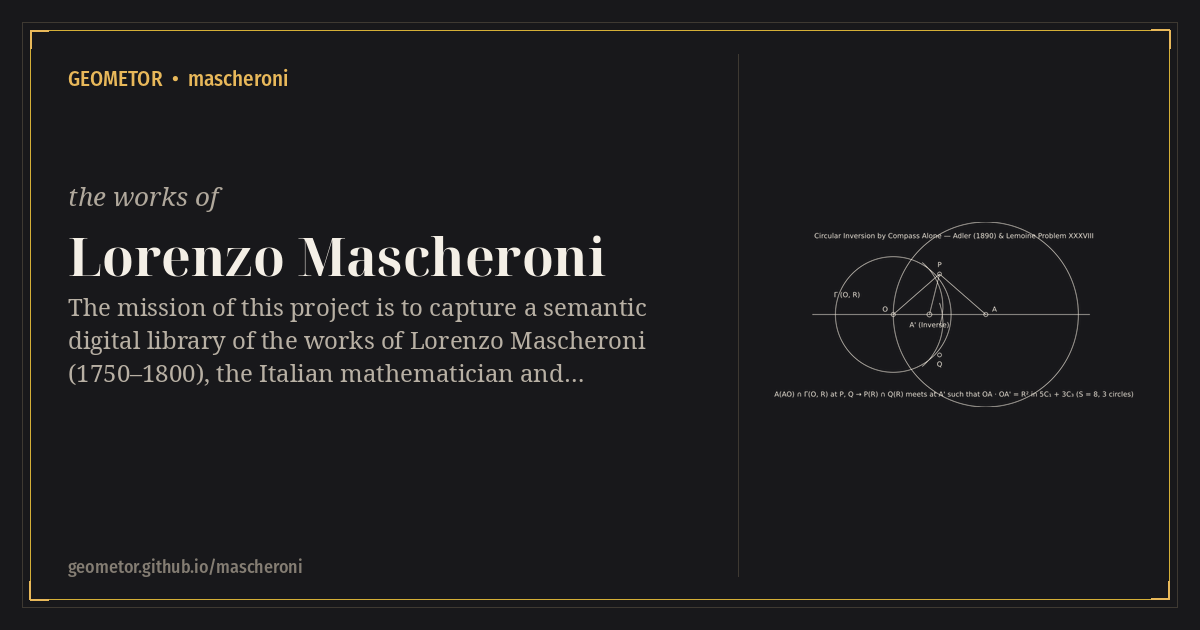
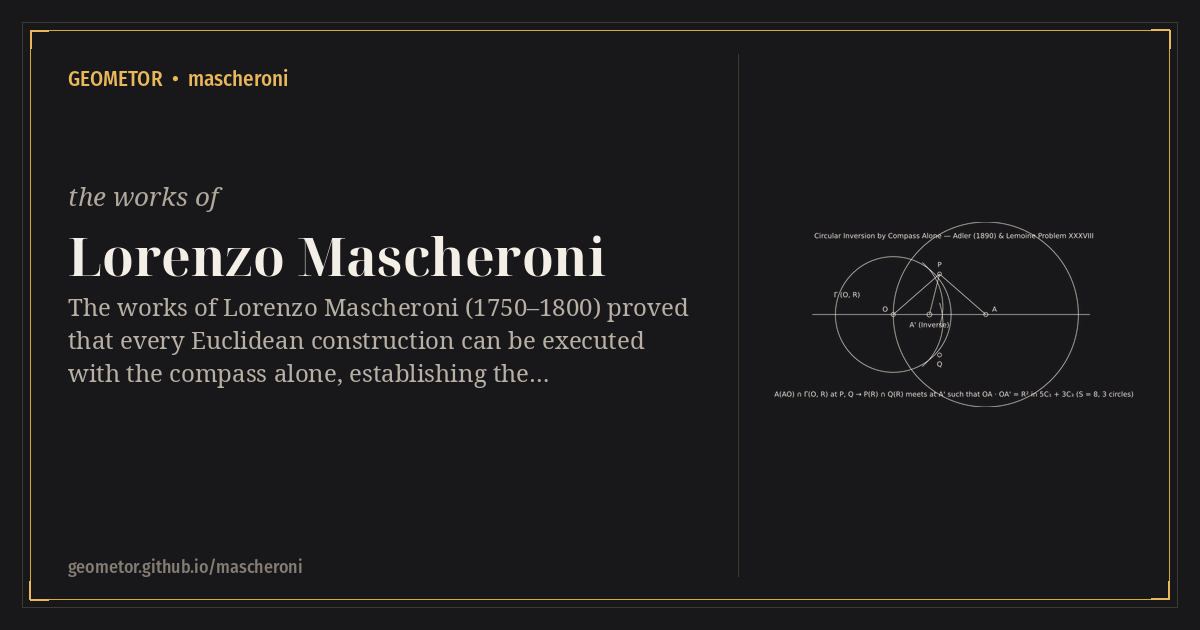
docs: add construction hero images, elevate English titles with native title tracks, and standardize track menus

Changed region(s): [[0.0617, 0.4524, 0.5858, 0.6333]]

diff --git a/docsrc/geometria_del_compasso/index.rst b/docsrc/geometria_del_compasso/index.rst
@@ -1,22 +1,24 @@
 :navigation: header
 :order: 1
 :type: book
-:nav_title: La Geometria del Compasso
-:breadcrumb_title: La Geometria del Compasso
+:title: The Geometry of the Compass
+:nav_title: Geometry of the Compass
+:breadcrumb_title: Geometry of the Compass
 :layout: book
-:book_title: La Geometria del Compasso
-:book_subtitle: The Geometry of the Compass — Lorenzo Mascheroni (Pavia, 1797)
+:book_title: The Geometry of the Compass
+:book_subtitle: La Geometria del Compasso — Lorenzo Mascheroni (Pavia, 1797)
 :author: Lorenzo Mascheroni
 :year: 1797
+:tracks: English: index | Italian: title-it
 :excerpt: Lorenzo Mascheroni's 1797 Pavia masterpiece proving constructively across twelve books that every Euclidean construction can be executed with the compass alone.
 
 .. _geometria_del_compasso-index:
 
-=========================
-La Geometria del Compasso
-=========================
+===========================
+The Geometry of the Compass
+===========================
 
-.. rubric:: *The Geometry of the Compass* — :person:`Lorenzo Mascheroni <mascheroni>` (Pavia, Anno V / 1797)
+.. rubric:: *La Geometria del Compasso* — :person:`Lorenzo Mascheroni <mascheroni>` (Pavia, Anno V / 1797)
 
 .. container:: title-page
 
@@ -25,7 +27,7 @@ La Geometria del Compasso
    | **First Edition (1797):** *La Geometria del Compasso*, Pavia: Presso gli Eredi di Pietro Galeazzi, Anno V della Repubblica Francese
    | **French Translation (1798):** *Géométrie du compas*, trans. :person:`Antoine-Michel Carette <carette>`, Paris: Duprat, 1798
    | **Centenary Edition (1901):** Ed. :person:`Gaetano Fazzari <fazzari>`, Palermo: Casa Editrice 'Era Nova', 1901
-   | **Digital Scriptorium Edition:** Synchronized 4-Track Codex (*Italian (1797) · English · Summary · Notes*) with exact symbolic geometry
+   | **Digital Scriptorium Edition:** Synchronized 4-Track Codex (*English · Italian · Summary · Notes*) with exact symbolic geometry
 
 .. epigraph::
 
@@ -38,26 +40,26 @@ La Geometria del Compasso
 Table of Contents
 -----------------
 
-**Prefazione e Dedica a Bonaparte: La genesi de La Geometria del Compasso**
-   :ref:`Italian (1797) <mascheroni-prefazione-it>` · :ref:`English <mascheroni-prefazione-en>` · :ref:`Summary <mascheroni-prefazione-summary>` · :ref:`Notes <mascheroni-prefazione-notes>`
+**Preface and Dedication to Bonaparte: The Genesis of The Geometry of the Compass**
+   :ref:`English <mascheroni-prefazione-en>` · :ref:`Italian <mascheroni-prefazione-it>` · :ref:`Summary <mascheroni-prefazione-summary>` · :ref:`Notes <mascheroni-prefazione-notes>`
 
-**Libro I: Preliminari — Principi e Operazioni Fondamentali del Compasso (§§ 1–11)**
-   :ref:`Italian (1797) <mascheroni-libro-1-it>` · :ref:`English <mascheroni-libro-1-en>` · :ref:`Summary <mascheroni-libro-1-summary>` · :ref:`Notes <mascheroni-libro-1-notes>`
+**Book I: Preliminaries — Principles and Fundamental Operations of the Compass (§§ 1–11)**
+   :ref:`English <mascheroni-libro-1-en>` · :ref:`Italian <mascheroni-libro-1-it>` · :ref:`Summary <mascheroni-libro-1-summary>` · :ref:`Notes <mascheroni-libro-1-notes>`
 
-**Libro III: Moltiplicazione e Divisione delle Distanze in Linea Retta (§§ 64–68)**
-   :ref:`Italian (1797) <mascheroni-libro-3-it>` · :ref:`English <mascheroni-libro-3-en>` · :ref:`Summary <mascheroni-libro-3-summary>` · :ref:`Notes <mascheroni-libro-3-notes>`
+**Book III: Multiplication and Division of Distances in a Straight Line (§§ 64–68)**
+   :ref:`English <mascheroni-libro-3-en>` · :ref:`Italian <mascheroni-libro-3-it>` · :ref:`Summary <mascheroni-libro-3-summary>` · :ref:`Notes <mascheroni-libro-3-notes>`
 
-**Libro IV: Perpendicolari e Parallele al Solo Compasso (§§ 76–80)**
-   :ref:`Italian (1797) <mascheroni-libro-4-it>` · :ref:`English <mascheroni-libro-4-en>` · :ref:`Summary <mascheroni-libro-4-summary>` · :ref:`Notes <mascheroni-libro-4-notes>`
+**Book IV: Perpendiculars and Parallels by the Compass Alone (§§ 76–80)**
+   :ref:`English <mascheroni-libro-4-en>` · :ref:`Italian <mascheroni-libro-4-it>` · :ref:`Summary <mascheroni-libro-4-summary>` · :ref:`Notes <mascheroni-libro-4-notes>`
 
-**Libro V: Delle Distanze Proporzionali al Solo Compasso (§§ 86–96)**
-   :ref:`Italian (1797) <mascheroni-libro-5-it>` · :ref:`English <mascheroni-libro-5-en>` · :ref:`Summary <mascheroni-libro-5-summary>` · :ref:`Notes <mascheroni-libro-5-notes>`
+**Book V: On Proportional Distances by the Compass Alone (§§ 86–96)**
+   :ref:`English <mascheroni-libro-5-en>` · :ref:`Italian <mascheroni-libro-5-it>` · :ref:`Summary <mascheroni-libro-5-summary>` · :ref:`Notes <mascheroni-libro-5-notes>`
 
-**Libro VII: Intersezione delle Rette cogli Archi di Cerchio e tra Loro (§§ 110–112)**
-   :ref:`Italian (1797) <mascheroni-libro-7-it>` · :ref:`English <mascheroni-libro-7-en>` · :ref:`Summary <mascheroni-libro-7-summary>` · :ref:`Notes <mascheroni-libro-7-notes>`
+**Book VII: Intersection of Straight Lines with Circular Arcs and with One Another (§§ 110–112)**
+   :ref:`English <mascheroni-libro-7-en>` · :ref:`Italian <mascheroni-libro-7-it>` · :ref:`Summary <mascheroni-libro-7-summary>` · :ref:`Notes <mascheroni-libro-7-notes>`
 
-**Libro X: Determinazione dei Centri e Problema di Napoleone (§§ 143–147)**
-   :ref:`Italian (1797) <mascheroni-libro-10-it>` · :ref:`English <mascheroni-libro-10-en>` · :ref:`Summary <mascheroni-libro-10-summary>` · :ref:`Notes <mascheroni-libro-10-notes>`
+**Book X: Determination of Centers and Napoleon's Problem (§§ 143–147)**
+   :ref:`English <mascheroni-libro-10-en>` · :ref:`Italian <mascheroni-libro-10-it>` · :ref:`Summary <mascheroni-libro-10-summary>` · :ref:`Notes <mascheroni-libro-10-notes>`
 
 .. picture:: /_static/figures/fig_mascheroni_midpoint.svg
    :alt: Mascheroni segment bisection without straightedge (Libro III, § 66, Sol. V)
@@ -87,7 +89,7 @@ Scholarly Apparatus
 .. toctree::
    :maxdepth: 1
    :hidden:
-   :caption: Testo Italiano (1797 / 1901)
+   :caption: Italian Edition
 
    00-prefazione-it
    01-libro-1-preliminari-it
@@ -116,3 +118,10 @@ Scholarly Apparatus
    05-libro-7-intersezioni-notes
    06-libro-10-centri-summary
    06-libro-10-centri-notes
+
+.. toctree::
+   :maxdepth: 1
+   :hidden:
+   :caption: Title Pages
+
+   title-it

diff --git a/docsrc/geometria_del_compasso/title-it.rst b/docsrc/geometria_del_compasso/title-it.rst
@@ -1,0 +1,60 @@
+:type: book_title
+:layout: book
+:title: La Geometria del Compasso
+:book_title: La Geometria del Compasso
+:book_subtitle: Lorenzo Mascheroni (Pavia, Anno V / 1797)
+:author: Lorenzo Mascheroni
+:toc_label: Indice
+:persons_label: Indice dei Nomi
+:bibliography_label: Bibliografia
+:glossary_label: Glossario
+:tracks: English: index | Italian: title-it
+
+.. _geometria_del_compasso-title-it:
+
+=========================
+La Geometria del Compasso
+=========================
+
+.. rubric:: *Lorenzo Mascheroni* — Pavia: Presso gli Eredi di Pietro Galeazzi, Anno V (1797)
+
+.. container:: title-page
+
+   | **Autore:** :person:`Lorenzo Mascheroni <mascheroni>` (1750–1800)
+   | **Dedica:** Generale :person:`Napoléon Bonaparte <bonaparte>` (Pavia, 1797)
+   | **Prima Edizione:** *La Geometria del Compasso*, Pavia, 1797
+
+----
+
+Indice dell'Opera
+-----------------
+
+**Prefazione e Dedica a Bonaparte: La genesi de La Geometria del Compasso**
+   :ref:`Italian <mascheroni-prefazione-it>` · :ref:`English <mascheroni-prefazione-en>` · :ref:`Summary <mascheroni-prefazione-summary>` · :ref:`Notes <mascheroni-prefazione-notes>`
+
+**Libro I: Preliminari — Principi e Operazioni Fondamentali del Compasso (§§ 1–11)**
+   :ref:`Italian <mascheroni-libro-1-it>` · :ref:`English <mascheroni-libro-1-en>` · :ref:`Summary <mascheroni-libro-1-summary>` · :ref:`Notes <mascheroni-libro-1-notes>`
+
+**Libro III: Moltiplicazione e Divisione delle Distanze in Linea Retta (§§ 64–68)**
+   :ref:`Italian <mascheroni-libro-3-it>` · :ref:`English <mascheroni-libro-3-en>` · :ref:`Summary <mascheroni-libro-3-summary>` · :ref:`Notes <mascheroni-libro-3-notes>`
+
+**Libro IV: Perpendicolari e Parallele al Solo Compasso (§§ 76–80)**
+   :ref:`Italian <mascheroni-libro-4-it>` · :ref:`English <mascheroni-libro-4-en>` · :ref:`Summary <mascheroni-libro-4-summary>` · :ref:`Notes <mascheroni-libro-4-notes>`
+
+**Libro V: Delle Distanze Proporzionali al Solo Compasso (§§ 86–96)**
+   :ref:`Italian <mascheroni-libro-5-it>` · :ref:`English <mascheroni-libro-5-en>` · :ref:`Summary <mascheroni-libro-5-summary>` · :ref:`Notes <mascheroni-libro-5-notes>`
+
+**Libro VII: Intersezione delle Rette cogli Archi di Cerchio e tra Loro (§§ 110–112)**
+   :ref:`Italian <mascheroni-libro-7-it>` · :ref:`English <mascheroni-libro-7-en>` · :ref:`Summary <mascheroni-libro-7-summary>` · :ref:`Notes <mascheroni-libro-7-notes>`
+
+**Libro X: Determinazione dei Centri e Problema di Napoleone (§§ 143–147)**
+   :ref:`Italian <mascheroni-libro-10-it>` · :ref:`English <mascheroni-libro-10-en>` · :ref:`Summary <mascheroni-libro-10-summary>` · :ref:`Notes <mascheroni-libro-10-notes>`
+
+----
+
+Apparato Critico
+----------------
+
+* :doc:`Indice dei Nomi </persons>`
+* :doc:`Bibliografia </bibliography>`
+* :doc:`Glossario </glossary>`

diff --git a/docsrc/geometria_del_compasso/02-libro-3-distanze/index.rst b/docsrc/geometria_del_compasso/02-libro-3-distanze/index.rst
@@ -1,18 +1,18 @@
 :layout: book
 :type: section
 :order: 3
-:canonical_id: Libro III
-:title: Libro III: Moltiplicazione e Divisione delle Distanze
-:nav_title: Libro III
-:breadcrumb_title: Libro III
+:canonical_id: Book III
+:title: Book III: Multiplication and Division of Distances
+:nav_title: Book III
+:breadcrumb_title: Book III
 
 .. _mascheroni-libro-3-container:
 
-============================================================
-Libro III: Moltiplicazione e Divisione delle Distanze
-============================================================
+==================================================
+Book III: Multiplication and Division of Distances
+==================================================
 
-.. rubric:: Raddoppiamento, Bisezione, Suddivisione e Trisezione al Solo Compasso (Pavia, 1797, §§ 64–68)
+.. rubric:: *Libro III* — Doubling, Bisection, Subdivision, and Trisection by the Compass Alone (Pavia, 1797, §§ 64–68)
 
 .. collection::
    :sort: order
@@ -35,7 +35,7 @@ Libro III: Moltiplicazione e Divisione delle Distanze
 .. toctree::
    :maxdepth: 1
    :hidden:
-   :caption: Testo Italiano (1797)
+   :caption: Italian Edition
 
    sec-64-raddoppiamento-it
    sec-66-bisezione-it

diff --git a/README.rst b/README.rst
@@ -3,6 +3,11 @@ GEOMETOR • mascheroni
 
 **Visit the Online Archive:** https://geometor.github.io/mascheroni/
 
+.. image:: docsrc/_static/figures/fig_mascheroni_inversion.svg
+   :alt: GEOMETOR • mascheroni featured geometric construction
+   :target: https://geometor.github.io/mascheroni/
+   :align: center
+
 **Lorenzo Mascheroni • La Geometria del Compasso • semantic digital archive**
 
 Mission
@@ -13,7 +18,7 @@ Mission
 Books in This Archive
 ---------------------
 
-- **`La Geometria del Compasso <https://geometor.github.io/mascheroni/geometria_del_compasso/>`_** — Demonstrating that all Euclidean planar straightedge-and-compass constructions can be executed with compass alone (Pavia, 1797).
+- **`The Geometry of the Compass <https://geometor.github.io/mascheroni/geometria_del_compasso/>`_** — *La Geometria del Compasso*, demonstrating that all Euclidean planar straightedge-and-compass constructions can be executed with compass alone (Pavia, 1797).
 
 Repository Contents
 -------------------

diff --git a/docsrc/geometria_del_compasso/00-prefazione/index.rst b/docsrc/geometria_del_compasso/00-prefazione/index.rst
@@ -1,18 +1,18 @@
 :layout: book
 :type: section
 :order: 1
-:canonical_id: Prefazione
-:title: Prefazione e Dedica a Bonaparte
-:nav_title: Prefazione
-:breadcrumb_title: Prefazione
+:canonical_id: Preface
+:title: Preface and Dedication to Bonaparte
+:nav_title: Preface
+:breadcrumb_title: Preface
 
 .. _mascheroni-prefazione-container:
 
-================================
-Prefazione e Dedica a Bonaparte
-================================
+===================================
+Preface and Dedication to Bonaparte
+===================================
 
-.. rubric:: The Genesis of *La Geometria del Compasso* (Pavia 1797 / Palermo 1901)
+.. rubric:: *Prefazione e Dedica a Bonaparte* — The Genesis of *La Geometria del Compasso* (Pavia 1797 / Palermo 1901)
 
 .. collection::
    :sort: order
@@ -33,7 +33,7 @@ Prefazione e Dedica a Bonaparte
 .. toctree::
    :maxdepth: 1
    :hidden:
-   :caption: Testo Italiano (1797 / 1901)
+   :caption: Italian Edition
 
    01-dedica-bonaparte-it
    02-prefazione-mascheroni-it

diff --git a/docsrc/geometria_del_compasso/01-libro-1-preliminari/index.rst b/docsrc/geometria_del_compasso/01-libro-1-preliminari/index.rst
@@ -1,18 +1,18 @@
 :layout: book
 :type: section
 :order: 2
-:canonical_id: Libro I
-:title: Libro I: Preliminari
-:nav_title: Libro I
-:breadcrumb_title: Libro I
+:canonical_id: Book I
+:title: Book I: Preliminaries
+:nav_title: Book I
+:breadcrumb_title: Book I
 
 .. _mascheroni-libro-1-container:
 
-============================
-Libro I: Preliminari
-============================
+=====================
+Book I: Preliminaries
+=====================
 
-.. rubric:: Principi Fondamentali e Teoria del Compasso Solo (Pavia, 1797, §§ 1–14)
+.. rubric:: *Libro I: Preliminari* — Fundamental Principles and Theory of the Compass Alone (Pavia, 1797, §§ 1–14)
 
 .. collection::
    :sort: order
@@ -31,7 +31,7 @@ Libro I: Preliminari
 .. toctree::
    :maxdepth: 1
    :hidden:
-   :caption: Testo Italiano (1797)
+   :caption: Italian Edition
 
    sec-01-definizioni-it
    sec-02-operazioni-it
